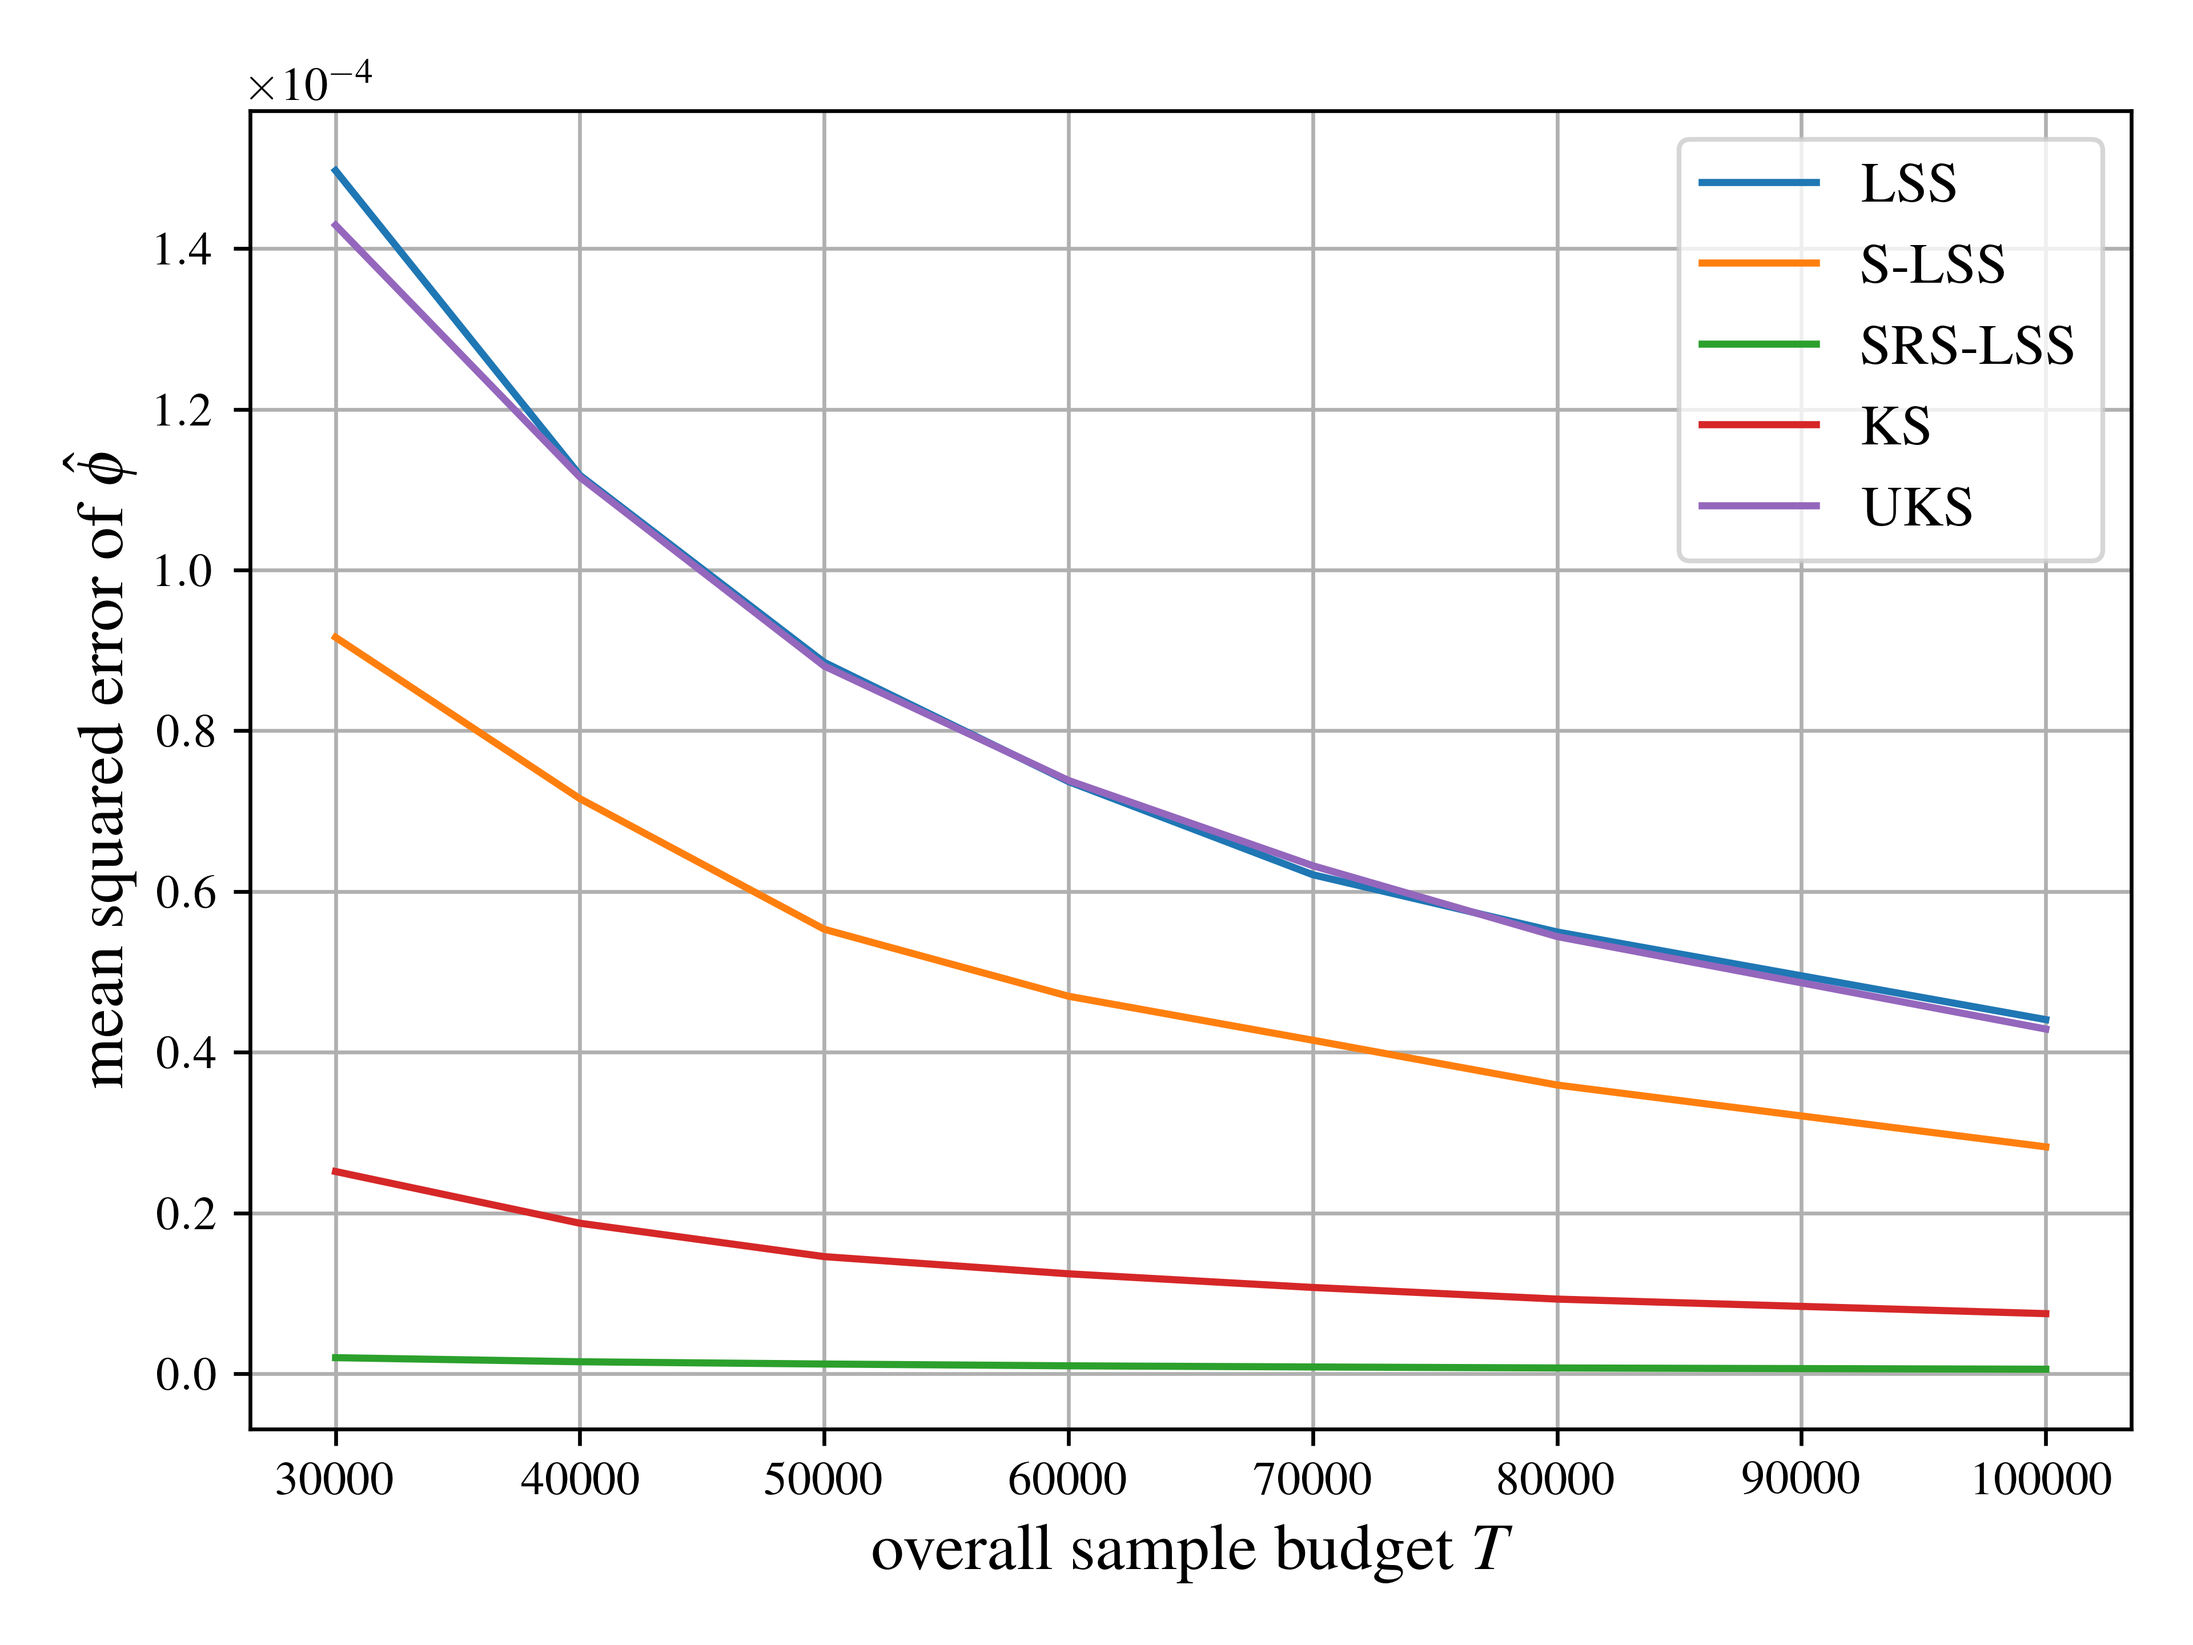
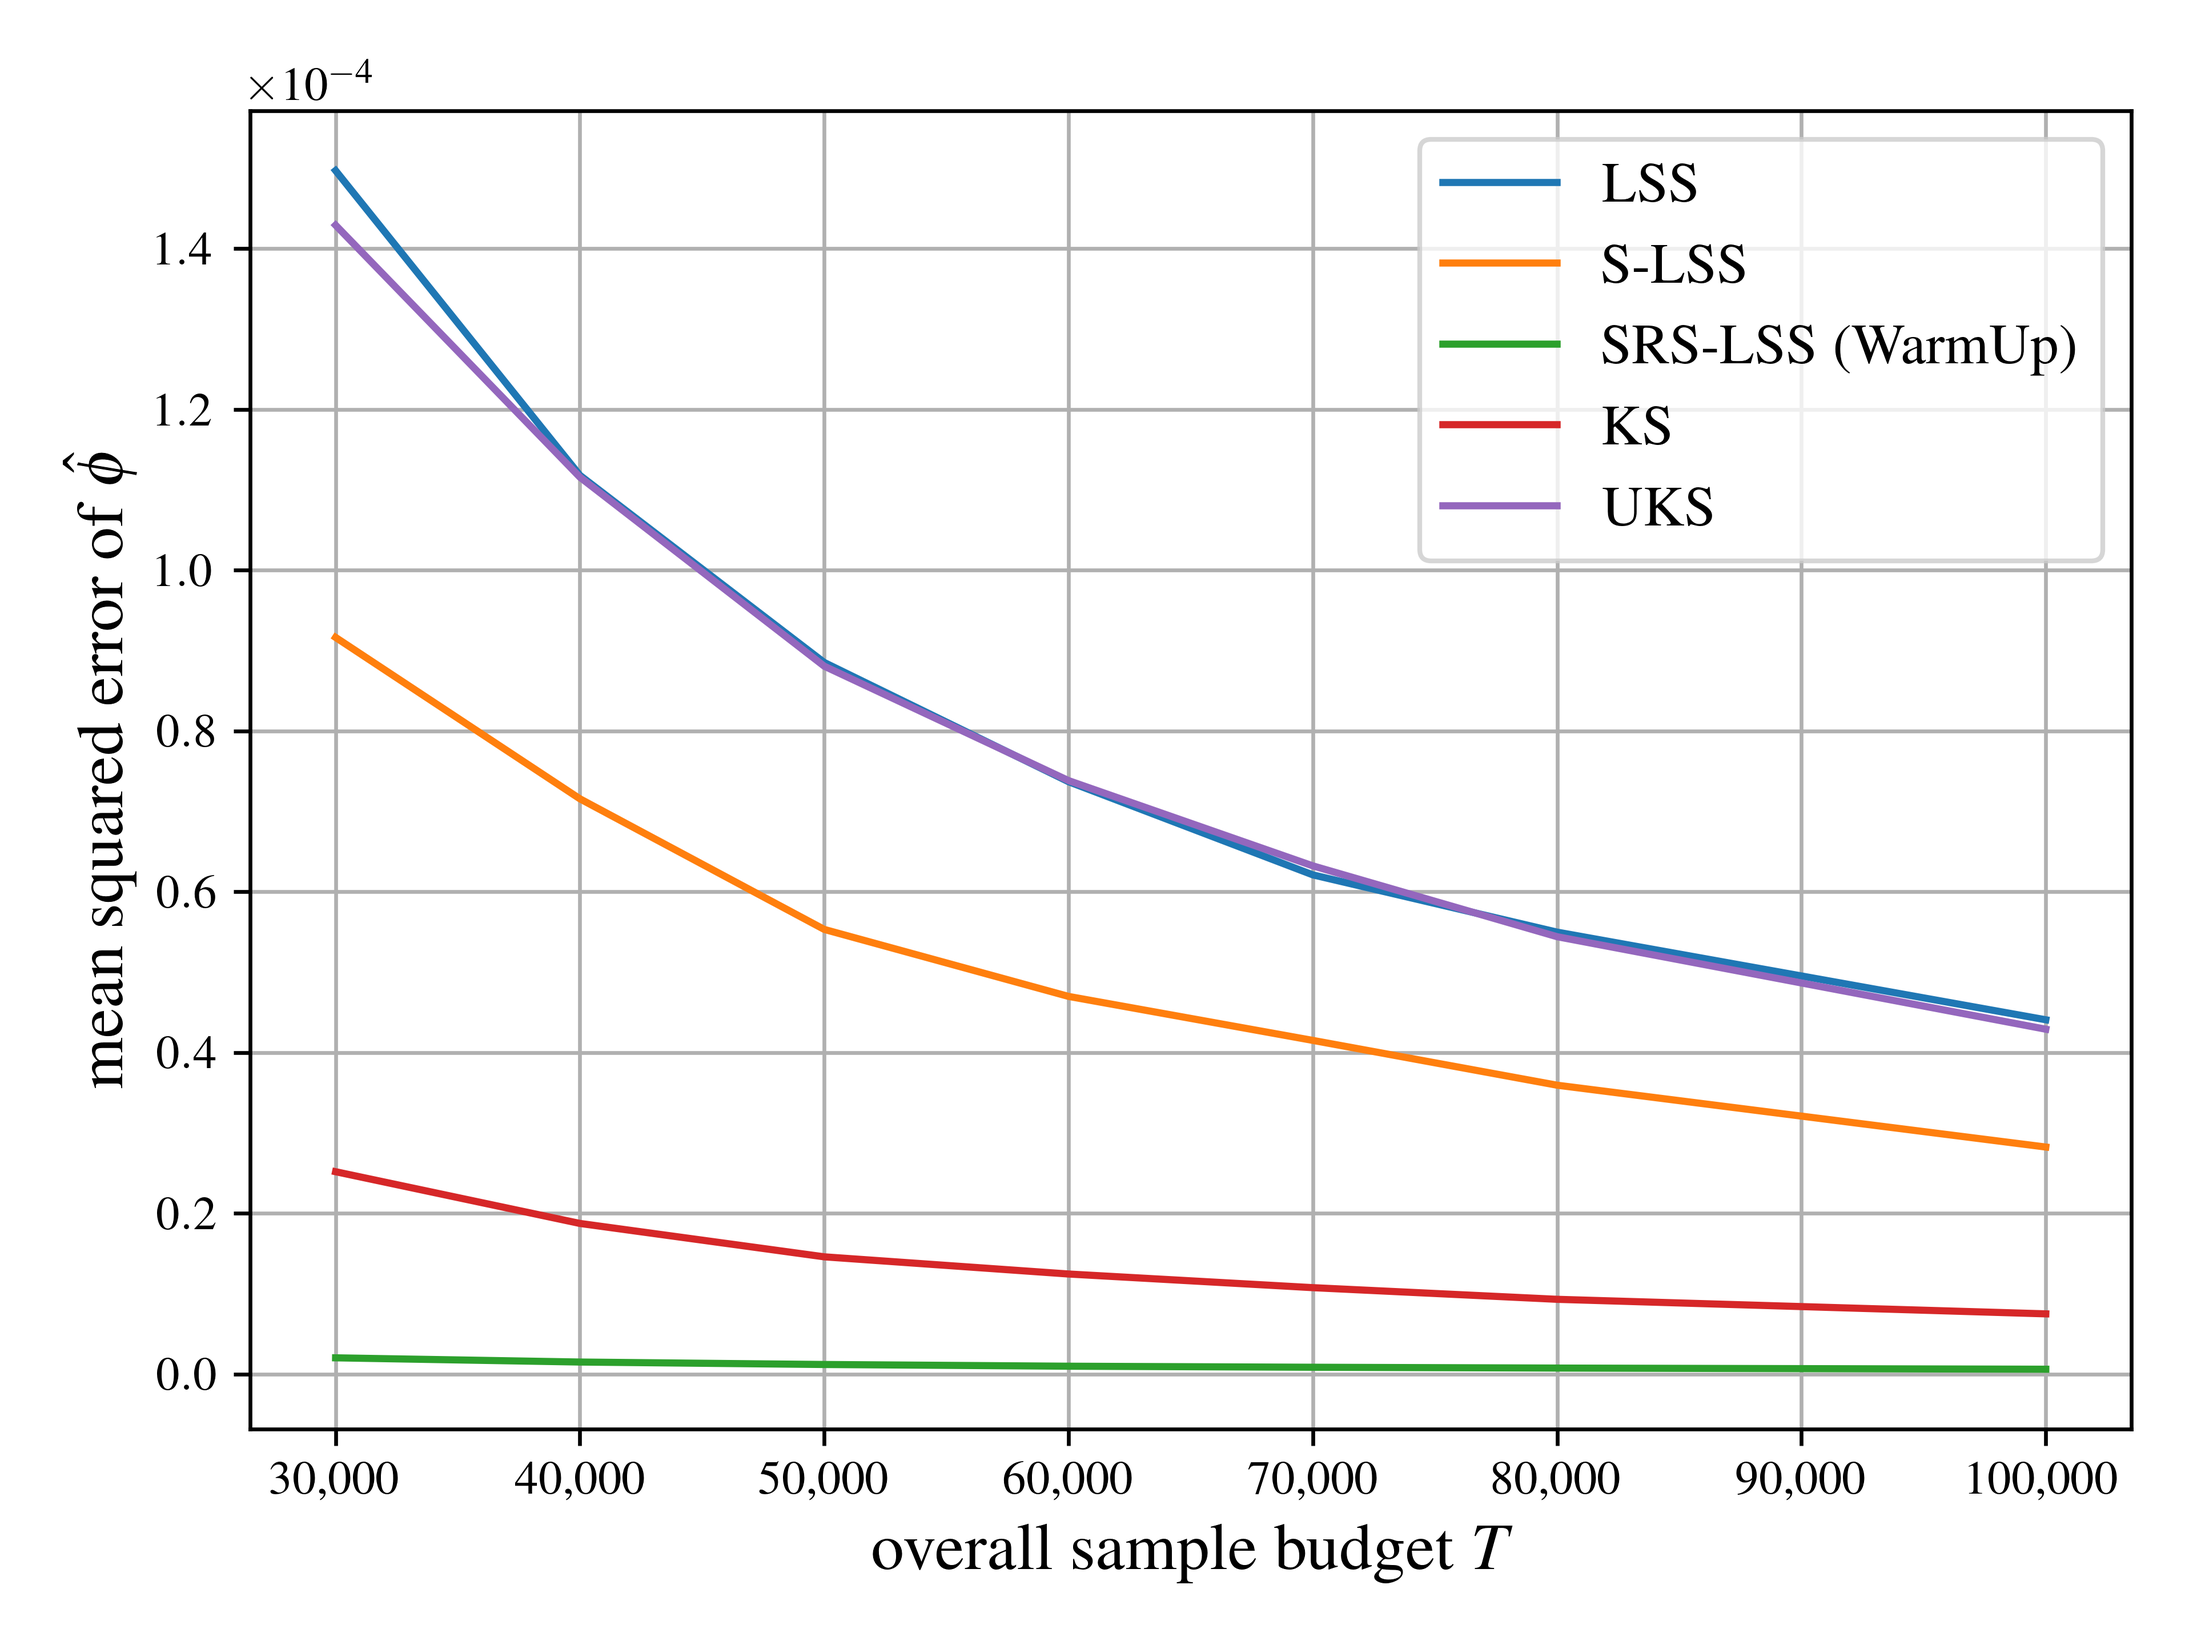
Update figures: add SRS-LSS with WarmUp and apply journal styling

diff --git a/src/shapley_least_squares/scripts/utils/plot_mse_comparison.py b/src/shapley_least_squares/scripts/utils/plot_mse_comparison.py
@@ -2,7 +2,10 @@ import matplotlib.pyplot as plt
 import pandas as pd
 
 from shapley_least_squares.approx_algorithms.srs_lss import SRSLSS
-from shapley_least_squares.scripts.utils.update_plt_params import update_plt_params
+from shapley_least_squares.scripts.utils.update_plt_params import (
+    format_with_commas,
+    update_plt_params,
+)
 
 
 def plot_mse_comparison(
@@ -17,6 +20,7 @@ def plot_mse_comparison(
             plt.plot(df.index, df[col], label=col)
 
     plt.ticklabel_format(style="sci", axis="y", scilimits=(-1, 1))
+    plt.gca().xaxis.set_major_formatter(plt.FuncFormatter(format_with_commas))
     plt.xlabel(r"overall sample budget $T$")
     plt.ylabel(r"mean squared error of $\hat{\phi}$")
     plt.legend()

diff --git a/src/shapley_least_squares/scripts/utils/update_plt_params.py b/src/shapley_least_squares/scripts/utils/update_plt_params.py
@@ -15,3 +15,10 @@ def update_plt_params() -> None:
             "text.latex.preamble": r"\usepackage{amsfonts} \usepackage{amsmath}",
         }
     )
+
+
+def format_with_commas(x: int | float, _) -> str:
+    if abs(x) >= 10000:
+        return f"{x:,.0f}"
+
+    return f"{x:g}"
